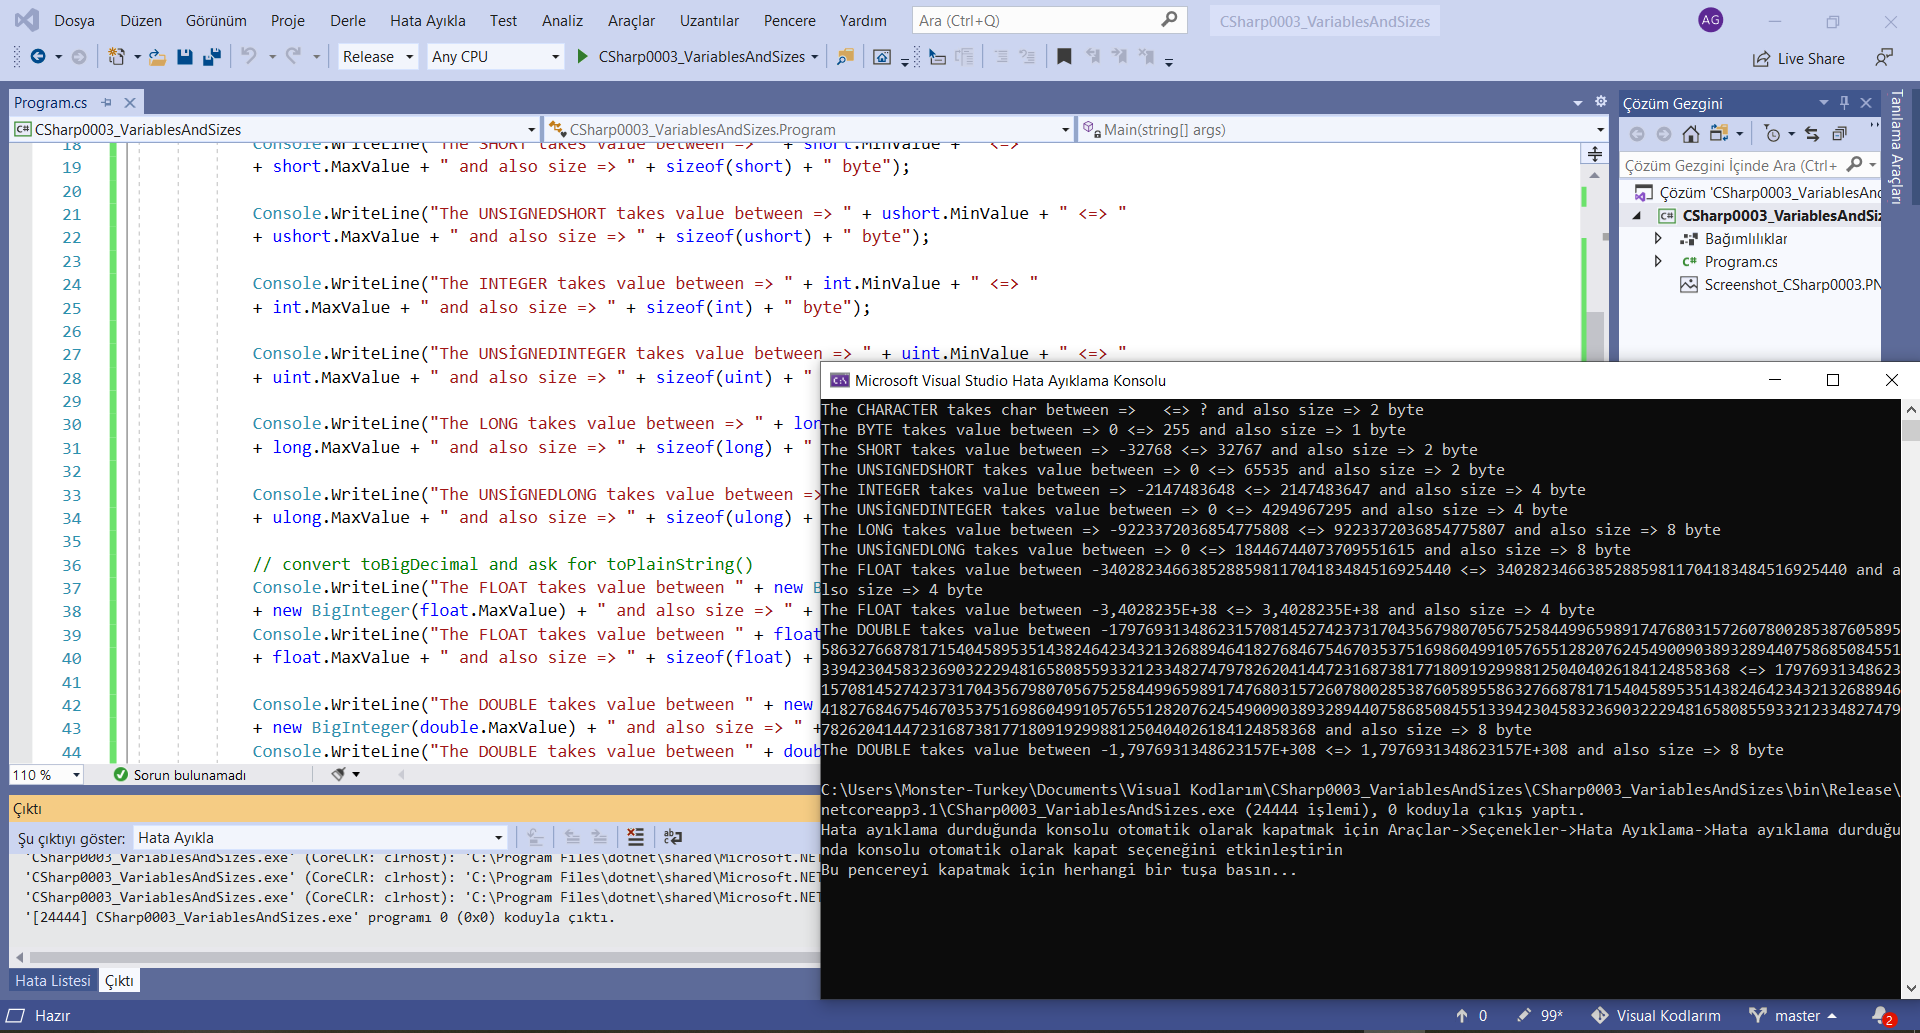
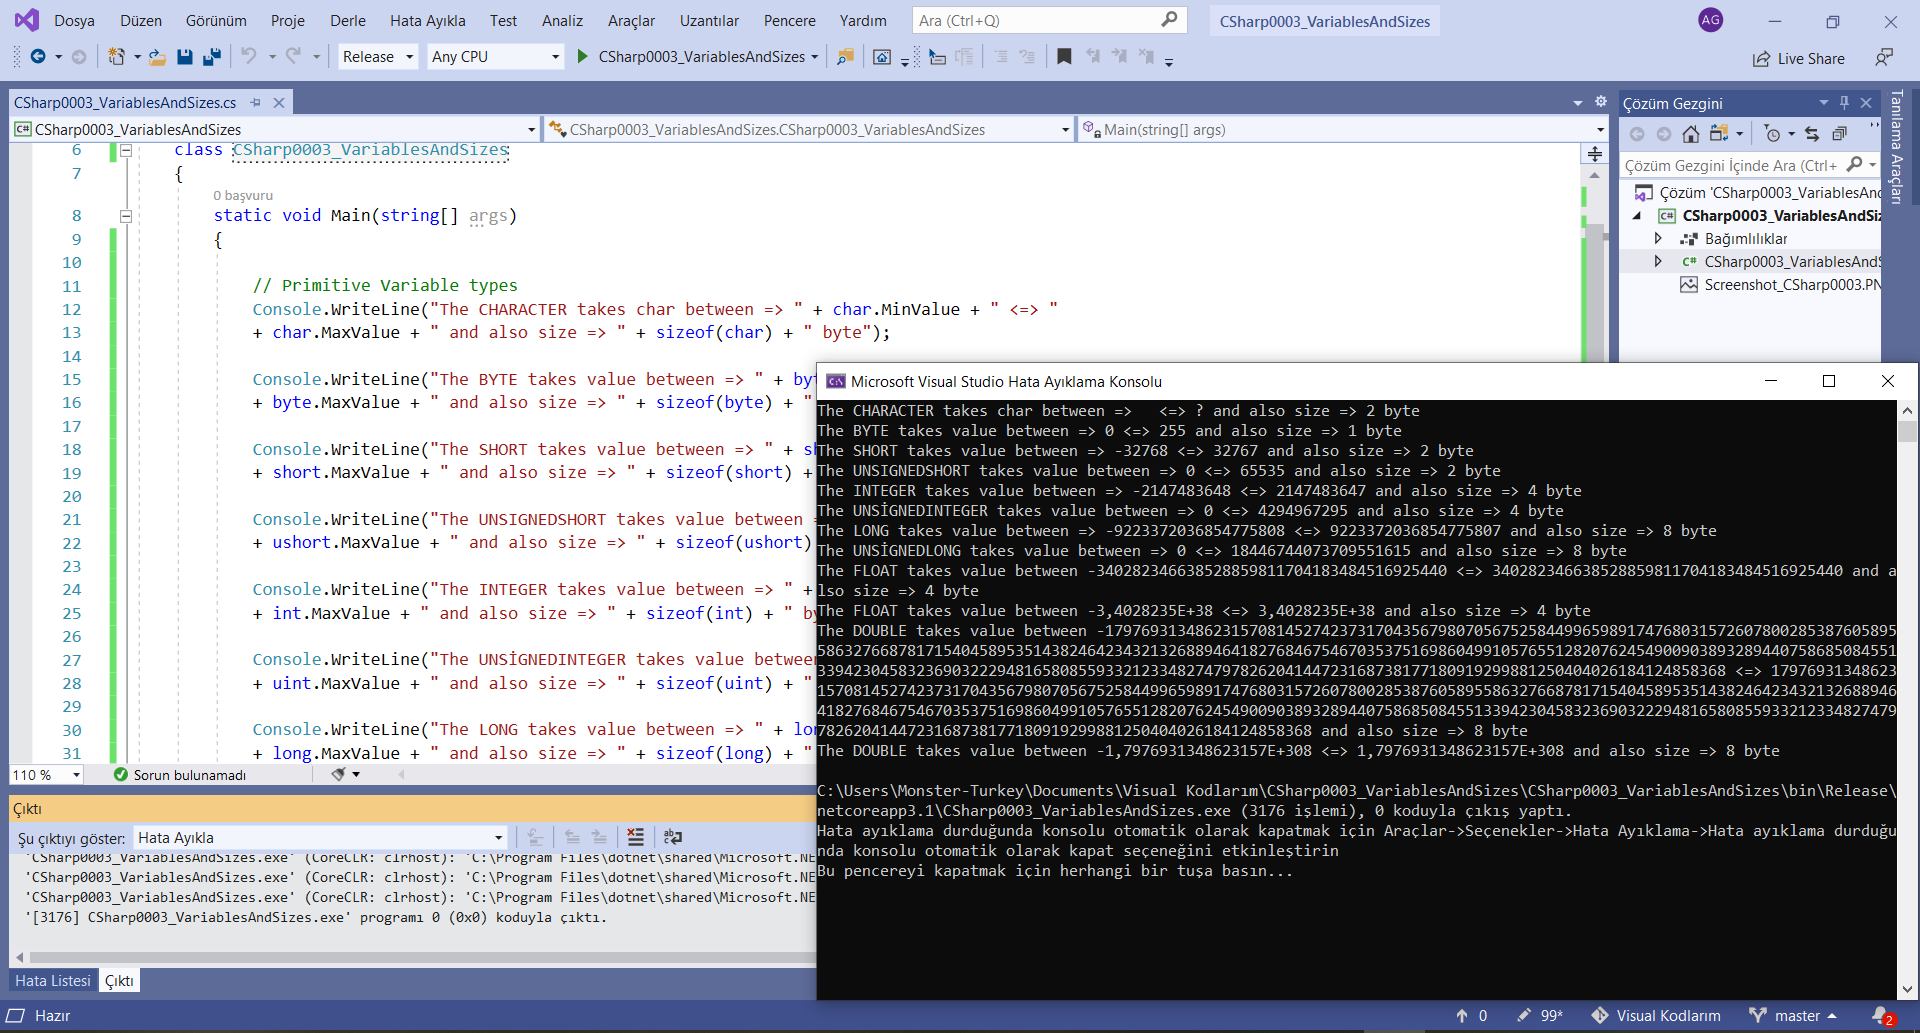
Added CSharp Code

diff --git a/CSharp0003_VariablesAndSizes.cs b/CSharp0003_VariablesAndSizes.cs
@@ -3,7 +3,7 @@ using System.Numerics;
 
 namespace CSharp0003_VariablesAndSizes
 {
-    class Program
+    class CSharp0003_VariablesAndSizes
     {
         static void Main(string[] args)
         {
